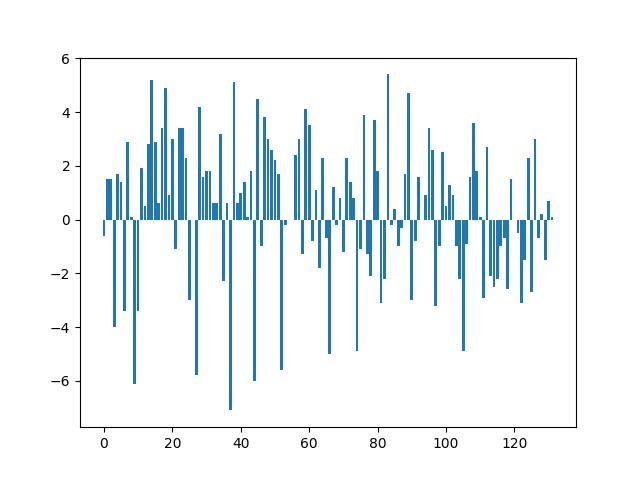
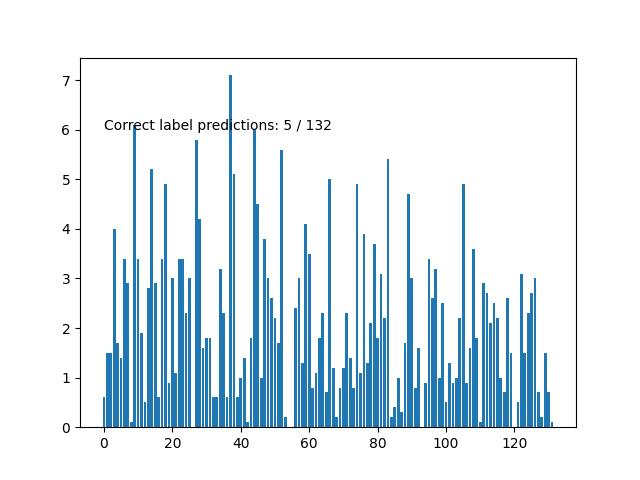
Added text to plots

diff --git a/Plot.py b/Plot.py
@@ -8,11 +8,17 @@ class Plot:
         self.label = self.parser.getColumnFloat("label")
     
     def plotK(self, k: int) -> None:
+        plt.clf()
         difference = []
+        correct = 0
+
         for a, b in zip(self.label, self.parser.getColumnFloat(str(k))):
-            difference.append(a - b)
+            if a == b:
+                correct += 1
+            difference.append(abs(a - b))
         
         plt.bar(self.test_instance, difference)
+        plt.text(0, 6, f"Correct label predictions: {correct} / {len(self.test_instance)}")
         plt.savefig(f"figs/plot_{k}.jpg")
 
 if __name__ == "__main__":
